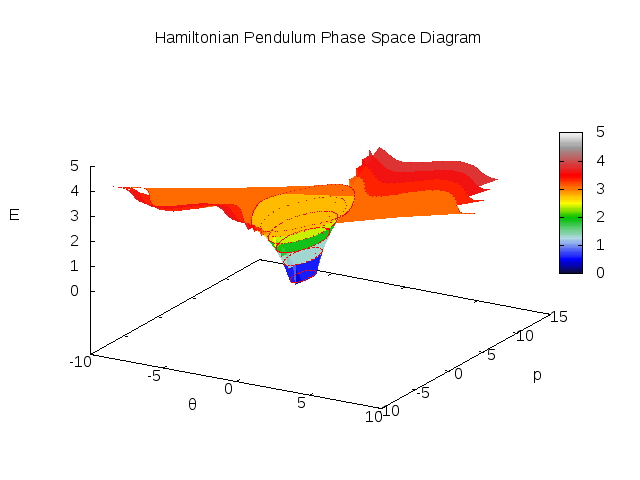
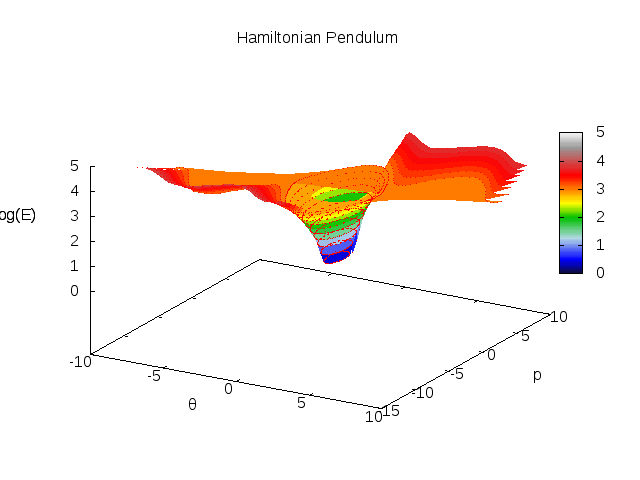
improve hamiltonian example

diff --git a/pendulum/index.md b/pendulum/index.md
@@ -77,5 +77,12 @@ object PendulumModel extends MoisMain("Pendulum Model") {
 }
 {% endhighlight %}
 
+And so we get these diagrams with gnuplot, clearly showing the
+oscillating pendulum in the central area where the circles are - each
+line is a path of constant energy, each corresponding to a run of the
+simulation with a different initial momentum. Outside the circular
+area the pendulum has too much energy to stop and instead circulates
+instead of oscillating back and forth.
+
 ![Phase-space Diagram](pendulum.png)
 ![Phase-space Diagram](pendulum-3d.png)
